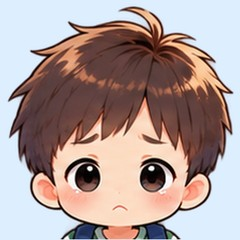
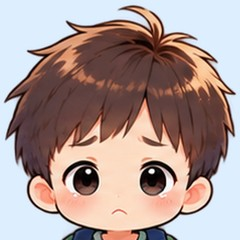
은유 v2 프로필 얼굴을 은결 v2와 같은 크기로 (얼굴 그림 폭 기준 자르기), 프로필 그림 캐시 버전

diff --git a/index.html b/index.html
@@ -105,8 +105,8 @@
       <div class="looks">
         <button class="look" data-look="eunyu"><img src="skyhook/assets/eunyu_base.jpg" alt=""><span>은유 스타일</span></button>
         <button class="look" data-look="eungyeol"><img src="skyhook/assets/eungyeol_base.jpg" alt=""><span>은결 스타일</span></button>
-        <button class="look v2" data-look="eunyu2"><img src="skyhook/assets/eunyu2_base.jpg?v=20261023u" alt=""><span>은유 v2 <i class="new">NEW</i></span></button>
-        <button class="look v2" data-look="eungyeol2"><img src="skyhook/assets/eungyeol2_base.jpg?v=20261023u" alt=""><span>은결 v2 <i class="new">NEW</i></span></button>
+        <button class="look v2" data-look="eunyu2"><img src="skyhook/assets/eunyu2_base.jpg?v=20261023v" alt=""><span>은유 v2 <i class="new">NEW</i></span></button>
+        <button class="look v2" data-look="eungyeol2"><img src="skyhook/assets/eungyeol2_base.jpg?v=20261023v" alt=""><span>은결 v2 <i class="new">NEW</i></span></button>
       </div>
       <label class="name-row">이름 <input id="inName" maxlength="8" autocomplete="off" placeholder="이름 (8글자까지)"></label>
       <div class="p-note">아이템샵에서 게임 배경 스킨과 부스트를 살 수 있어요!</div>
@@ -172,7 +172,7 @@
   <div id="scrTitle" class="title-scr hidden">
     <div id="tsBg" class="ts-bg"></div>
     <img id="tsArt" class="ts-art" alt="">
-    <button id="tsBack" class="ts-back" aria-label="뒤로"><img src="hub/v3/back.png?v=20261023u" alt=""></button>
+    <button id="tsBack" class="ts-back" aria-label="뒤로"><img src="hub/v3/back.png?v=20261023v" alt=""></button>
     <button id="tsStart" class="ts-start"><span class="ts-tri"></span>START</button>
   </div>
 

diff --git a/skyhook/game.js b/skyhook/game.js
@@ -714,7 +714,7 @@ function startStage(si) {
   if (!THEMES[skinTheme() || STAGES[si].theme].img) getBG(skinTheme() || STAGES[si].theme);
   setState('play');
   renderHearts();
-  $('hudProgFace').style.backgroundImage = `url(${(window.Costume && Costume.src) || `assets/${Save.data.char}_base.jpg`})`;
+  $('hudProgFace').style.backgroundImage = `url(${(window.Costume && Costume.src) || `assets/${Save.data.char}_base.jpg?v=20261023v`})`;
   Audio.startBgm();
 }
 
@@ -1444,7 +1444,7 @@ function goHome() {
 function showReady(si) {
   G.si = si;
   $('readyTitle').textContent = `${STAGES[si].label} ${STAGES[si].name}`;
-  $('readyFace').src = (window.Costume && Costume.src) || `assets/${Save.data.char}_base.jpg`;
+  $('readyFace').src = (window.Costume && Costume.src) || `assets/${Save.data.char}_base.jpg?v=20261023v`;
   $('readyFace').classList.toggle('cos', !!(window.Costume && Costume.src));
   setState('ready');
 }

diff --git a/common/charv2.js b/common/charv2.js
@@ -16,8 +16,8 @@
   function load(look) {
     if (!LOOKS[look] || atlas[look]) return;
     const a = atlas[look] = { img: new Image(), f: null, ok: false };
-    fetch(`${base}common/chars/${look}.json?v=20261023u`).then((r) => r.json()).then((j) => {
-      a.f = j.frames; a.img.onload = () => { a.ok = true; }; a.img.src = `${base}common/chars/${look}.webp?v=20261023u`;
+    fetch(`${base}common/chars/${look}.json?v=20261023v`).then((r) => r.json()).then((j) => {
+      a.f = j.frames; a.img.onload = () => { a.ok = true; }; a.img.src = `${base}common/chars/${look}.webp?v=20261023v`;
     }).catch(() => { /* 그림이 없으면 기본 그림으로 */ });
   }
   const get = (look, name) => { const a = atlas[look]; return a && a.ok && a.f[name] ? [a, a.f[name]] : null; };

diff --git a/shop/shop.js b/shop/shop.js
@@ -148,7 +148,7 @@ function renderOwned() {
 // ---------- 캐릭터 꾸미기 ----------
 const COS_IMG = (look, id) => (id ? `../common/costumes/${look}_${id}.png${V}` : `../skyhook/assets/${look}_base.jpg${V}`);
 const BASE_FULL = (look) => `../common/costumes/${look}_base.png${V}`; // 기본 옷 전신 그림
-const faceOf = (c) => Hub.costumeImg(c, '../') || `../skyhook/assets/${c.look}_base.jpg`;
+const faceOf = (c) => Hub.costumeImg(c, '../') || `../skyhook/assets/${c.look}_base.jpg${V}`;
 const fullOf = (look, id) => (id ? COS_IMG(look, id) : BASE_FULL(look));
 const DRESS_ALL = [{ id: null, name: '기본 옷', price: 0, desc: '처음 입고 있던 옷이에요' }, ...Hub.COSTUMES];
 // 새 캐릭터(v2)는 아직 옷 그림이 없어서 기본 옷만

diff --git a/skyhook/index.html b/skyhook/index.html
@@ -114,7 +114,7 @@
   <div id="rotateHint" class="hidden">가로로 돌리면 더 크게 볼 수 있어요 ↻</div>
 </div>
 <script src="../common/profile.js?v=20261023k"></script>
-<script src="../common/charv2.js?v=20261023u"></script>
+<script src="../common/charv2.js?v=20261023v"></script>
 <script src="../common/costume.js?v=20261023k"></script>
 <script src="../common/skins.js?v=20261023k"></script>
 <script src="game.js?v=20261023k"></script>

diff --git a/helicopter/index.html b/helicopter/index.html
@@ -92,7 +92,7 @@
   <div id="rotateHint" class="hidden">가로로 돌리면 더 크게 볼 수 있어요 ↻</div>
 </div>
 <script src="../common/profile.js?v=20261023k"></script>
-<script src="../common/charv2.js?v=20261023u"></script>
+<script src="../common/charv2.js?v=20261023v"></script>
 <script src="../common/costume.js?v=20261023k"></script>
 <script src="../common/skins.js?v=20261023k"></script>
 <script src="game.js?v=20261023k"></script>

diff --git a/stairs/index.html b/stairs/index.html
@@ -96,7 +96,7 @@
   <div id="rotateHint" class="hidden">📱 세로로 세워서 하면 더 크게 보여요</div>
 </div>
 <script src="../common/profile.js?v=20261023k"></script>
-<script src="../common/charv2.js?v=20261023u"></script>
+<script src="../common/charv2.js?v=20261023v"></script>
 <script src="../common/costume.js?v=20261023k"></script>
 <script src="../common/skins.js?v=20261023k"></script>
 <script src="game.js?v=20261023k"></script>

diff --git a/hub/hub.js b/hub/hub.js
@@ -3,7 +3,7 @@
 const $ = (id) => document.getElementById(id);
 const root = $('root');
 // 얼굴: 옷을 입었으면 옷 그림(윗부분을 동그랗게 보여 줌)
-const face = (c) => Hub.costumeImg(c) || `skyhook/assets/${c.look}_base.jpg`;
+const face = (c) => Hub.costumeImg(c) || `skyhook/assets/${c.look}_base.jpg?v=20261023v`;
 
 // ---------- sound (tiny UI blips) ----------
 let actx = null;

diff --git a/downhill/index.html b/downhill/index.html
@@ -88,7 +88,7 @@
   </div>
 </div>
 <script src="../common/profile.js?v=20261023k"></script>
-<script src="../common/charv2.js?v=20261023u"></script>
+<script src="../common/charv2.js?v=20261023v"></script>
 <script src="../common/costume.js?v=20261023k"></script>
 <script src="../common/skins.js?v=20261023k"></script>
 <script src="game.js?v=20261023b"></script>

diff --git a/shisen/index.html b/shisen/index.html
@@ -90,7 +90,7 @@
 </div>
 <script src="../common/profile.js?v=20261023k"></script>
 <script src="../common/skins.js?v=20261023k"></script>
-<script src="../common/charv2.js?v=20261023u"></script>
+<script src="../common/charv2.js?v=20261023v"></script>
 <script src="../common/costume.js?v=20261023k"></script>
 <script src="game.js?v=20261023k"></script>
 </body>

diff --git a/tools/build_char_v2.py b/tools/build_char_v2.py
@@ -15,6 +15,7 @@ ROOT = os.path.dirname(os.path.dirname(os.path.abspath(__file__)))
 SRC_DIR = sys.argv[3] if len(sys.argv) > 3 else f'{ROOT}/character/{src_name}_character_v2_png_assets/character_v2/{src_name}/base'
 SRC = f'{SRC_DIR}/{src_name}_base_'
 BG = {'eunyu': (255, 228, 238), 'eungyeol': (221, 238, 255)}[src_name]
+FACE_PAD = {'eunyu': 1.12, 'eungyeol': 1.04}[src_name]  # 프로필 얼굴 자르기 여백 (그림 폭 대비)
 
 def load(p):
     return Image.open(SRC + p + '.png').convert('RGBA')
@@ -128,9 +129,10 @@ atlas.save(f'{ROOT}/common/chars/{look}.webp', quality=90, method=6)
 json.dump({'look': look, 'frames': meta}, open(f'{ROOT}/common/chars/{look}.json', 'w'), separators=(',', ':'))
 
 # ----- 메뉴·결과 화면용 그림 (기존 이름 규칙) -----
-def face_jpg(p, out):  # 240×240 동그라미 얼굴 (배경색 있음)
-    im = load(p); bb = im.getchannel('A').getbbox()
-    cx = (bb[0] + bb[2]) // 2; side = int((bb[3] - bb[1]) * 1.02); top = bb[1] - 6
+def face_jpg(p, out):  # 240×240 동그라미 얼굴 (배경색 있음) — 그림 폭 기준으로 잘라서 캐릭터마다 얼굴 크기가 같게
+    im = load(p); bb = im.getchannel('A').point(lambda v: 255 if v > 40 else 0).getbbox()
+    # 은유 얼굴 그림은 머리가 좁게 그려져 있어서 조금 더 넓게 잘라야 은결과 얼굴 크기가 같아 보임
+    side = int((bb[2] - bb[0]) * FACE_PAD); cx = (bb[0] + bb[2]) // 2; top = bb[1] - int(side * 0.02)
     c = im.crop((cx - side // 2, top, cx + side // 2, top + side))
     bg = Image.new('RGBA', c.size, BG + (255,)); bg.alpha_composite(c)
     bg.convert('RGB').resize((240, 240), Image.LANCZOS).save(out, quality=90)
